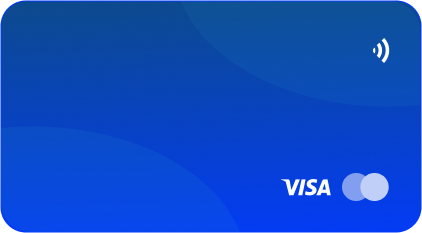
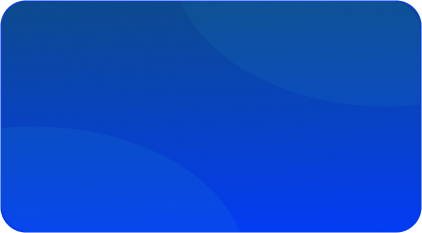
saved cards

Changed region(s): [[0.6469, 0.721, 0.9242, 0.8712], [0.8626, 0.1502, 0.9242, 0.2704]]

diff --git a/src/components/buyfiat.component/buyFiat.js b/src/components/buyfiat.component/buyFiat.js
@@ -27,8 +27,46 @@ class BuyFiat extends Component {
                     <Radio.Button value={2}>Withdraw</Radio.Button>
                 </Radio.Group>
                 {buyFiat ? <>
-                    <Translate className="mb-0 text-white-30 fw-200 fs-36 mb-16" content="purchase_fiat" component={Title} />
-                    <Paragraph className="text-secondary fw-300 fs-16">Your wallet is empty, you don’t have any assets to make transactions. Follow this link and <Link to="" className="text-yellow text-underline">Deposit</Link> some cash.</Paragraph>
+                    <Paragraph className="mb-0 text-white-30 fw-200 fs-36">Sell your Fiat for Cash</Paragraph>
+                    <Paragraph className="text-secondary fw-300 fs-16 mb-36">Need to replenish your wallet? Follow this link and  <Link to="" className="text-yellow">Deposit</Link> some cash.</Paragraph>
+                    <Card className="crypto-card fiatcard mb-36" bordered={false}>
+                        <div className="crypto-card-top">
+                            <span className="d-flex align-center">
+                                <span className="coin-circle coin md usdtbg-white" />
+                                <Text className="fs-24 text-white crypto-name ml-8">USD</Text>
+                            </span>
+                            <span className="icon md c-pointer signal-white" />
+                        </div>
+                        <div className="crypto-card-bottom">
+                            <div>
+                                <div className="text-white-50 fs-14 fw-200">Current Balance</div>
+                                <div className="fs-24 text-white fw-500">$5,200.00</div>
+                            </div>
+                            <div>
+                                <span className="coin-circle coin md visa-white" />
+                                <span className="coin-circle coin md mastercard-white" />
+                            </div>
+                        </div>
+                    </Card>
+                    <Card className="crypto-card select mb-36" bordered={false}>
+                        <div className="crypto-card-top">
+                            <span className="d-flex align-center">
+                                <span className="coin-circle coin md usdtbg-white" />
+                                <Text className="fs-24 text-white crypto-name ml-8">USD</Text>
+                            </span>
+                            <span className="icon md c-pointer signal-white" />
+                        </div>
+                        <div className="crypto-card-bottom">
+                            <div>
+                                <div className="text-white-50 fs-14 fw-200">Current Balance</div>
+                                <div className="fs-24 text-white fw-500">$5,200.00</div>
+                            </div>
+                            <div>
+                                <span className="coin-circle coin md visa-white" />
+                                <span className="coin-circle coin md mastercard-white" />
+                            </div>
+                        </div>
+                    </Card>
                 </>
                     : <>
                         <Translate className="mb-0 text-white-30 fw-200 fs-36 mb-16" content="purchase_fiat" component={Title} />
@@ -37,47 +75,6 @@ class BuyFiat extends Component {
                             <FiatList />
                         </div>
                     </>}
-                {/* <Paragraph className="mb-0 text-white-30 fw-200 fs-36">Purchase a Fiat</Paragraph>
-                <Paragraph className="text-secondary fw-300 fs-16">Your wallet is empty, you don’t have any assets to make transactions. Follow this link and <Link to="" className="text-yellow">Deposit</Link> some cash.</Paragraph> */}
-
-
-
-                <Paragraph className="mb-0 text-white-30 fw-200 fs-36">Sell your Fiat for Cash</Paragraph>
-                <Paragraph className="text-secondary fw-300 fs-16 mb-36">Need to replenish your wallet? Follow this link and  <Link to="" className="text-yellow">Deposit</Link> some cash.</Paragraph>
-
-                <Card className="crypto-card fiatcard mb-36" bordered={false}>
-                    <span className="d-flex align-center">
-                        <span className="coin-circle coin md usdtbg-white" />
-                        <Text className="fs-24 text-white crypto-name ml-8">USD</Text>
-                    </span>
-                    <div className="crypto-details">
-
-                        <div className=" fw-200">
-                            <div className="text-white-50 fs-14">Current Balance</div>
-                            <div className="fs-24 text-white fw-500">$5,200.00</div>
-                        </div>
-                    </div>
-                </Card>
-                <Card className="crypto-card select mb-36" bordered={false}>
-                    <div className="d-flex justify-content align-center">
-                        <span className="d-flex align-center">
-                            <span className="coin-circle coin md eurotbg-white" />
-                            <Text className="fs-24 text-white crypto-name ml-8">EUR</Text>
-                        </span>
-                        <span className="icon md c-pointer signal-white" />
-                    </div>
-                    <div className="crypto-details d-flex justify-content align-center">
-
-                        <div className=" fw-200">
-                            <div className="text-white-50 fs-14">Current Balance</div>
-                            <div className="fs-24 text-white fw-500">$5,200.00</div>
-                        </div>
-                        <div>
-                            <span className="coin-circle coin md visa-white" />
-                            <span className="coin-circle coin md mastercard-white" />
-                        </div>
-                    </div>
-                </Card>
             </>
         );
     }

diff --git a/src/components/shared/savedCards.js b/src/components/shared/savedCards.js
@@ -1,0 +1,50 @@
+import React, { Component } from 'react';
+import config from '../../config/config';
+import { Link } from 'react-router-dom';
+import { List, Skeleton, Typography } from 'antd';
+import Translate from 'react-translate-component';
+
+const { Text } = Typography;
+class SavedCards extends Component {
+    state = {}
+    render() {
+        const { initLoading, loading } = this.state;
+        const loadMore =
+            !loading ? (
+                <div
+                    className="d-flex align-center c-pointer"
+                    style={{
+                        justifyContent: 'space-between',
+                        lineHeight: '40px',
+                    }}
+                >
+                    <span>
+                        <span className="icon sm r-arrow-o-white ml-36" />
+                        <Text className="text-red fs-16 ml-16 fw-500">Link New Card</Text>
+                    </span>
+                    <span className="icon sm r-arrow-o-white" />
+                </div>
+            ) : null;
+        return (
+            <List
+                itemLayout="horizontal"
+                dataSource={config.savedCards}
+                loadMore={loadMore}
+                className="crypto-list"
+                renderItem={item => (
+                    <List.Item style={{ borderWidth: '0px' }}>
+                        <Link>
+                            <List.Item.Meta
+                                avatar={<span className={`coin md ${item.cardType}-white mr-4`} />}
+                                title={<div className="fw-300 fs-14"><div className="text-white-30">{item.cardNumber}</div><div className="text-yellow">{item.confirm}</div></div>}
+                            />
+                            <span className="icon sm r-arrow-o-white" />
+                        </Link>
+                    </List.Item>
+                )}
+            />
+        );
+    }
+}
+
+export default SavedCards;

diff --git a/src/components/buyfiat.component/selectFiat.js b/src/components/buyfiat.component/selectFiat.js
@@ -1,11 +1,38 @@
 import React, { Component } from 'react';
+import { Card, Typography, Button } from 'antd';
+import SavedCards from '../shared/savedCards';
 
 class SelectFiat extends Component {
     state = {}
     render() {
+        const { Text } = Typography
         return (
             <>
-                Selected Fiat
+                <Card className="crypto-card fiatcard mb-36" bordered={false}>
+                    <div className="crypto-card-top">
+                        <span className="d-flex align-center">
+                            <span className="coin-circle coin md usdtbg-white" />
+                            <Text className="fs-24 text-white crypto-name ml-8">USD</Text>
+                        </span>
+                        <span className="icon md c-pointer signal-white" />
+                    </div>
+                    <div className="crypto-card-bottom">
+                        <div>
+                            <div className="text-white-50 fs-14 fw-200">Current Balance</div>
+                            <div className="fs-24 text-white fw-500">$5,200.00</div>
+                        </div>
+                        <div>
+                            <span className="coin-circle coin md visa-white" />
+                            <span className="coin-circle coin md mastercard-white ml-12" />
+                        </div>
+                    </div>
+                </Card>
+                <Text className="fs-16 text-white fw-300">Fund with card</Text>
+                <SavedCards />
+                <Text className="fs-16 text-white fw-300 mt-36 d-block">How much would you like to add?</Text>
+                <div className="fs-36 fw-200 text-white">USD $0.00</div>
+
+                <Button size="large" block className="pop-btn" style={{ marginTop: '55px' }} onClick={this.billingAddress}>Preview Swap</Button>
             </>
         );
     }

diff --git a/src/assets/css/styles.css b/src/assets/css/styles.css
@@ -130,6 +130,7 @@ line-height: 16px;min-width:90px}
 .crypto-card.select{background-image: url(../images/select-card-bg.png);background-size: cover;border-radius: 1.8rem;}
 .crypto-card.fiatcard{background-image: url(../images/fiatcard-bg.png);background-size: cover;border-radius: 1.8rem;}
 .crypto-card .ant-card-body{height: 231px; display: flex; flex-direction: column;justify-content: space-between;}
+.crypto-card-top, .crypto-card-bottom{display: flex; align-items: center;justify-content: space-between;}
 .crypto-percent{font-size: 60px; line-height: normal;}
 .enter-val-container{display: flex; align-items: flex-start;justify-content: flex-end;margin-right: 35px;}
 .enter-val{width: auto;}
@@ -176,8 +177,8 @@ line-height: 16px;min-width:90px}
 .coin-circle{width: 52px !important;height: 52px !important;}
 .coin.md.usdtbg-white{background-position: -79px -1112px;}
 .coin.md.eurotbg-white{background-position: -14px -1112px;}
-.coin.md.visa-white{background-position: -12px -1045px;width: 58px !important;}
-.coin.md.mastercard-white{background-position: -76px -1045px;width: 58px !important;}
+.coin.md.visa-white{background-position: -15px -1053px;width: 56px !important; height: 35px !important;}
+.coin.md.mastercard-white{background-position: -83px -1055px;width: 54px !important;height: 35px !important;}
 
 .pay-list{padding: 20px 0; border-bottom: 1px solid var(--borderLight);}
 .expiry-input{width: 200px;}

diff --git a/src/reducers/buyFiatReducer.js b/src/reducers/buyFiatReducer.js
@@ -16,13 +16,13 @@ let initialState = {
     stepcode: "step1",
     stepTitles: {
         buyfiat: "suissebase_personal",
+        selectfiat: "suissebase_personal",
         addcard: 'link_newcard',
-        selectFiat: 'select fiat'
     },
     stepSubTitles: {
         buyfiat: "avail_wallet_weprovide",
+        selectfiat: "wallet_in_usd",
         addcard: null,
-        selectFiat: 'select fiat'
     }
 }
 const BuyFiatReducer = (state = initialState, action) => {

diff --git a/src/components/buyfiat.component/index.js b/src/components/buyfiat.component/index.js
@@ -22,8 +22,8 @@ class MassPayment extends Component {
     renderContent = () => {
         const stepcodes = {
             buyfiat: <BuyFiat />,
-            addcard: <AddCard handleClick={() => this.onHhandleClick()} />,
             selectfiat: <SelectFiat />,
+            addcard: <AddCard />,
         }
         return stepcodes[config[this.props.buyFiat.stepcode]]
     }

diff --git a/src/config/config.js b/src/config/config.js
@@ -163,6 +163,13 @@ const config = {
       profit: '0.72',
       currency: '£',
     }
+  ],
+  savedCards: [
+    {
+      cardType: 'visa',
+      cardNumber: 'Visa....5339',
+      confirm: 'Confirmation need',
+    }
   ]
 }
 

diff --git a/src/components/buyfiat.component/config.js b/src/components/buyfiat.component/config.js
@@ -1,5 +1,5 @@
 export const buyFiatSteps = {
     step1: "buyfiat",
-    step2: "addcard",
-    step3: "selectfiat",
+    step2: "selectfiat",
+    step3: "addcard",
 }
